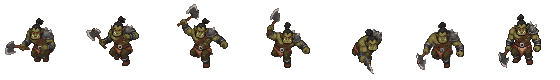
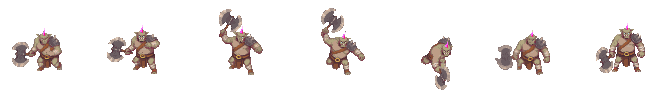
Orc, Gosma, Geleia e Morceguinho refeitos com monstros dos pacotes de referencia
Orc (ref. Goblin Brutamonte, The Depths of the Mountain) animado no
skeleton-v3; o golpe de lado foi feito olhando pra esquerda e espelhado pra
o machado nao sumir atras do corpo. Gosma e Geleia (ref. Pote Mimico) e
Morceguinho (ref. Aranha da Crypt) como objetos de lado, animados no v3.
Fora os quadros com cara de boba da Geleia e a barrinha de sombra do
Morceguinho. Mesmo tamanho de antes no jogo.

Claude-Session: https://claude.ai/code/session_01TtQZrh7QHjg7ZznbLxTsw5

diff --git a/Ferramentas/Personagens/inimigo_de_cima.py b/Ferramentas/Personagens/inimigo_de_cima.py
@@ -1,5 +1,7 @@
-"""Monta as folhas de um inimigo visto de cima (1.22.0), feito no PixelLab no estilo do Aventureiro
-(Goblin da Clava, Esqueleto Guerreiro, Bruxo, Orc e Esqueleto Arqueiro).
+"""Monta as folhas de um inimigo visto de cima (1.22.0), feito no PixelLab. Desde a 1.22.2 cada um e feito
+com um monstro dos pacotes EPIC RPG World (Old Prison, Crypt, The Depths of the Mountain) de referencia:
+Goblin da Clava, Esqueleto Guerreiro, Esqueleto Arqueiro, Bruxo e Orc (personagens) e Gosma, Geleia e
+Morceguinho (objetos, so de lado).
 
 Entrada: uma pasta com os quadros baixados do PixelLab, <animacao>/<direcao>/<n>.png, com
 animacao em parado, andar, ataque, morte e direcao em east, south, north (o tamanho do quadro e o do andar); e, se tiver, rotacao/<direcao>.png
@@ -54,7 +56,13 @@ ESCOLHAS = {
     # Orc (1.22.2, com o Goblin Brutamonte do The Depths of the Mountain de referencia): o golpe de lado foi
     # feito olhando pra esquerda (o machado fica na mao da frente) e espelhado; no quadro 4 ele se abaixa e o
     # machado some. O golpe fica no quadro 4.
-    "Orc": {("ataque", "east"): [0, 1, 2, 3, 5, 5, 6]},
+    "Orc": {("ataque", "east"): [0, 1, 2, 3, 5, 5, 6], ("ataque", "north"): [0, 1, 2, 3, 5, 5, 6]},
+    # Geleia (1.22.2, objeto com o Pote Mimico de referencia): no ataque ela pisca e faz cara de boba nos
+    # quadros 1, 4, 7 e 8; o cuspe sai no 5 (posicao 4).
+    "Geleia": {("ataque", "east"): [0, 0, 2, 3, 5, 6, 0]},
+    # Morceguinho (1.22.2, objeto com a Aranha da Crypt de referencia): o quadro 0 de cada animacao e o
+    # desenho base, com uma barrinha de sombra embaixo; fica de fora. A mordida e o quadro 5 (posicao 4).
+    "Morceguinho": {(a, "east"): list(range(1, 9)) for a in ("parado", "andar", "ataque", "morte")},
     # Arqueiro (1.22.2, com o Esqueleto da Prisao do Old Prison de referencia): o ataque e o lead-jab do
     # skeleton-v3 (levanta o arco, puxa e solta, 3 quadros), com o puxar segurado um pouco; a flecha sai no
     # quadro 3.
